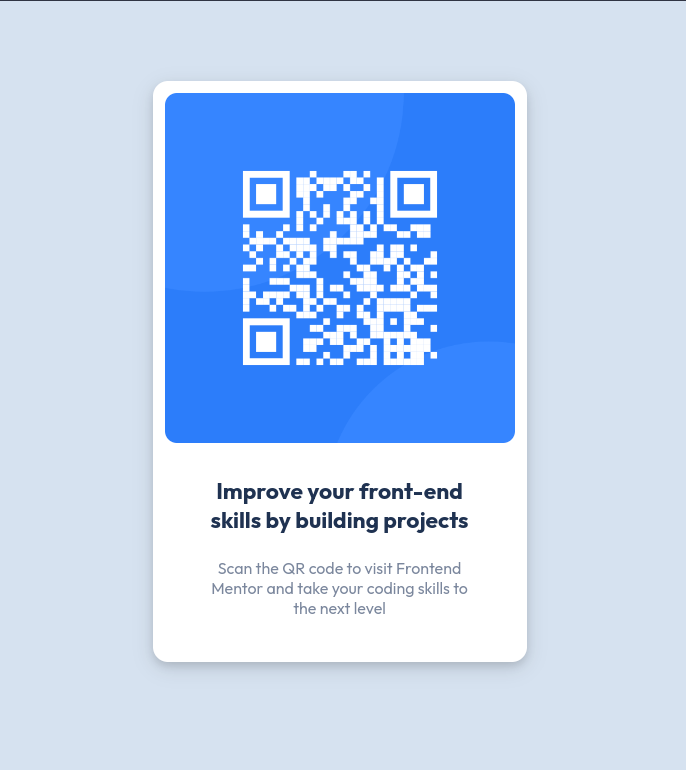
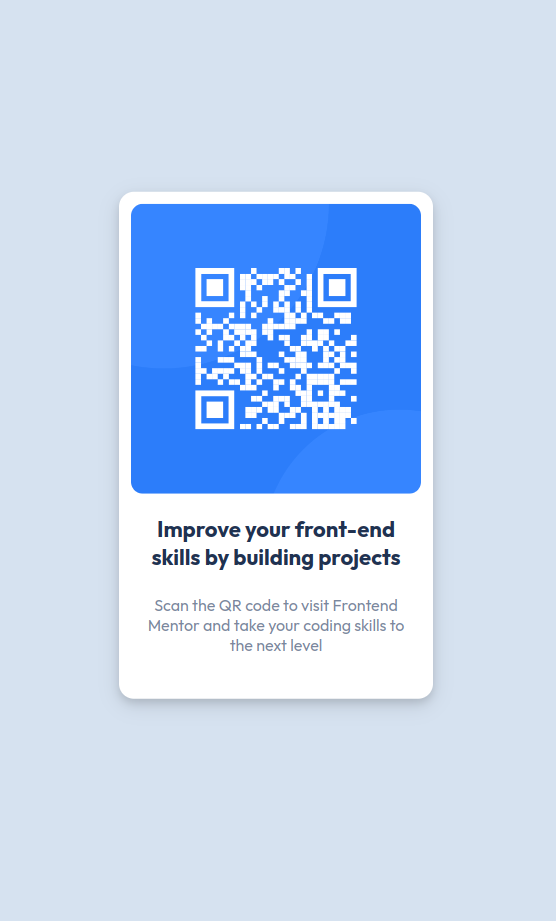
Add sematic elements and new screenshot

Changed region(s): [[0.214, 0.0935, 0.795, 0.8727]]

diff --git a/dist/index.html b/dist/index.html
@@ -17,27 +17,21 @@
     </style> -->
   </head>
   <body>
-    <div class="main">
-      <div class="img">
+    <main class="main">
+      <section class="img">
         <img src="images/image-qr-code.png" alt="qr-code" class="image">
-      </div>
+      </section>
 
       <div class="head">
-        <h3>
+        <h1>
           Improve your front-end <br>skills by building projects
-        </h3>
+        </h1>
       </div>
-      <div class="para">
+      <section class="para">
         <p>
           Scan the QR code to visit Frontend <br> Mentor and take your coding skills to <br>the next level
         </p>
-      </div>
-      <!-- <footer>
-        <div class="attribution">
-          Challenge by <a href="https://www.frontendmentor.io?ref=challenge" target="_blank">Frontend Mentor</a>. 
-          Coded by <a href="#">Your Name Here</a>.
-        </div>
-      </footer> -->
-    </div> 
+      </section>
+    </main> 
   </body>
 </html>

diff --git a/scss/style.scss b/scss/style.scss
@@ -26,14 +26,16 @@ body {
 }
 
 .main {
-  max-width: 350px;
+  max-width: 290px;
   height: auto;
   background-color: $White;
   padding: 12px;
   border: none;
   border-radius: $Border-radius;
-  margin: 80px;
-  position: fixed;
+  position: absolute;
+  top: 50%;
+  left: 50%;
+  transform: translate(-50%, -50%);
   box-shadow: 0 4px 8px 0 rgba(0, 0, 0, 0.1), 0 6px 20px 0 rgba(0, 0, 0, 0.12);
 
   .image {
@@ -55,7 +57,7 @@ body {
 
   .head {
     font-weight: map-get($font-weight, bold);
-    font-size: 19.5px;
+    font-size: 11px;
     color: $Dark-blue;
   }
 

diff --git a/dist/css/style.css b/dist/css/style.css
@@ -11,14 +11,16 @@ body {
 }
 
 .main {
-  max-width: 350px;
+  max-width: 290px;
   height: auto;
   background-color: hsl(0, 0%, 100%);
   padding: 12px;
   border: none;
   border-radius: 15px;
-  margin: 80px;
-  position: fixed;
+  position: absolute;
+  top: 50%;
+  left: 50%;
+  transform: translate(-50%, -50%);
   box-shadow: 0 4px 8px 0 rgba(0, 0, 0, 0.1), 0 6px 20px 0 rgba(0, 0, 0, 0.12);
 }
 .main .image {
@@ -37,7 +39,7 @@ body {
 }
 .main .head {
   font-weight: 700;
-  font-size: 19.5px;
+  font-size: 11px;
   color: hsl(218, 44%, 22%);
 }
 .main .para {
